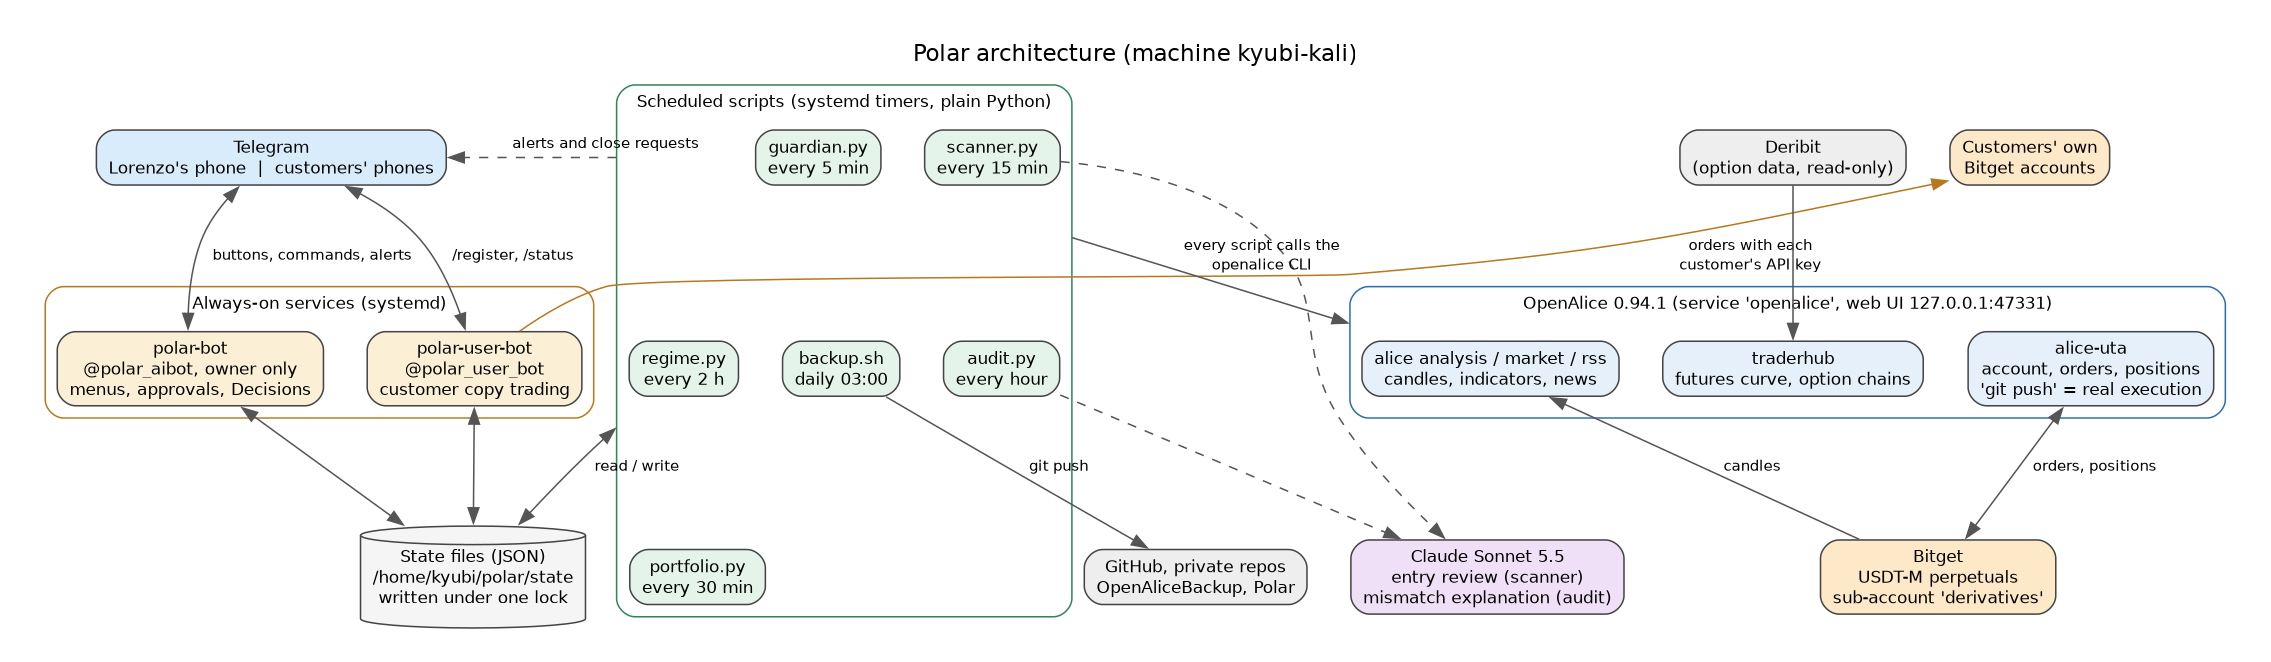
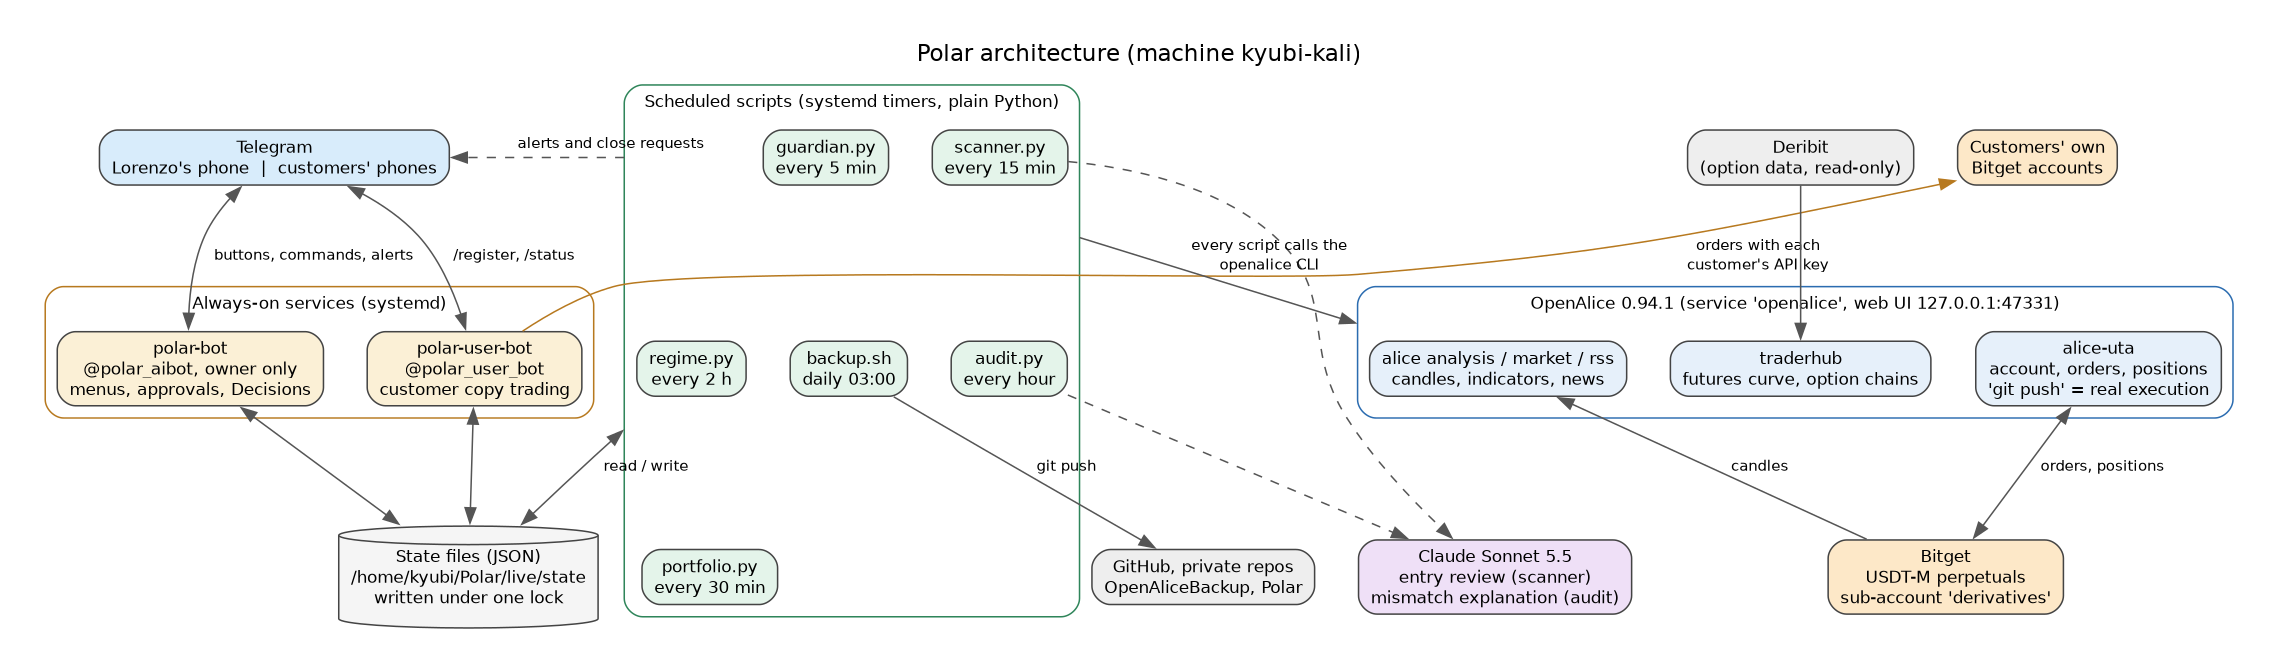
Docs and .gitignore: single working directory (live/ and github-backup/ under Polar)
Claude-Session: https://claude.ai/code/session_01Wp9TVgQjHGDmtbiFKq4kXv

diff --git a/Doc/Infrastructure/live-system/09-operations.md b/Doc/Infrastructure/live-system/09-operations.md
@@ -29,11 +29,11 @@ Replace the unit name with `polar-regime`, `polar-portfolio`, `polar-audit`, `po
 Running a script by hand without `--live` changes nothing:
 
 ```bash
-python3 /home/kyubi/polar/bin/guardian.py        # prints what it would do
-python3 /home/kyubi/polar/bin/scanner.py         # shows each coin's score, places no order
-python3 /home/kyubi/polar/bin/regime.py --dry
-python3 /home/kyubi/polar/bin/portfolio.py --dry
-python3 /home/kyubi/polar/bin/audit.py --dry
+python3 /home/kyubi/Polar/live/bin/guardian.py        # prints what it would do
+python3 /home/kyubi/Polar/live/bin/scanner.py         # shows each coin's score, places no order
+python3 /home/kyubi/Polar/live/bin/regime.py --dry
+python3 /home/kyubi/Polar/live/bin/portfolio.py --dry
+python3 /home/kyubi/Polar/live/bin/audit.py --dry
 ```
 
 ## Restarting
@@ -58,7 +58,7 @@ There is no command that closes positions in bulk, on purpose.
 
 ## Backups
 
-`polar-backup.timer` runs `/home/kyubi/openalice-backup/backup.sh` every day at 03:00 CAT. It copies:
+`polar-backup.timer` runs `/home/kyubi/Polar/github-backup/backup.sh` every day at 03:00 CAT. It copies:
 
 - OpenAlice configuration, without account keys, login data or the sealing key,
 - OpenAlice's workspaces, including the switched-off agent instructions,
@@ -80,7 +80,7 @@ and OpenAlice login by hand under `~/.openalice/data/config/` and start the serv
 The Monday check sends a Telegram message when a newer stable version exists. To upgrade:
 
 ```bash
-bash ~/polar/bin/upgrade-openalice.sh
+bash ~/Polar/live/bin/upgrade-openalice.sh
 ```
 
 It stops if entry orders are pending, takes a backup, upgrades through npm (this asks for sudo),
@@ -89,15 +89,15 @@ itself if the test fails. It never touches positions or orders.
 
 ## Tests
 
-The tests are in `/home/kyubi/polar/tests/`. They use a fake broker and fake Telegram and a throwaway
+The tests are in `/home/kyubi/Polar/live/tests/`. They use a fake broker and fake Telegram and a throwaway
 state folder, never the real account or the real state.
 
 ```bash
-cd /home/kyubi/polar/tests
-python3 -I stress_guardian.py      # 18 checks
-python3    stress_scanner.py       # 6 checks (needs the user's Python packages, so no -I)
-python3    stress_userbot.py       # 18 checks
-python3 -I stress_decisions.py     # 17 checks
+cd /home/kyubi/Polar/live/tests
+python3 stress_guardian.py      # 18 checks
+python3 stress_scanner.py       # 6 checks
+python3 stress_userbot.py       # 18 checks
+python3 stress_decisions.py     # 17 checks
 ```
 
 Each prints PASS or FAIL per check. Run them after changing `guardian.py`, `scanner.py` or either bot.

diff --git a/Doc/Infrastructure/live-system/05-scheduled-jobs.md b/Doc/Infrastructure/live-system/05-scheduled-jobs.md
@@ -1,7 +1,7 @@
 # 05 Scheduled jobs
 
 Every job is a systemd user unit pair: a `.service` that runs a script once and a `.timer` that
-starts it. Files are in `~/.config/systemd/user/`. The scripts are in `/home/kyubi/polar/bin/`.
+starts it. Files are in `~/.config/systemd/user/`. The scripts are in `/home/kyubi/Polar/live/bin/`.
 
 | Timer | Interval | Script | Reads | Writes | Model used |
 |---|---|---|---|---|---|
@@ -10,7 +10,7 @@ starts it. Files are in `~/.config/systemd/user/`. The scripts are in `/home/kyu
 | `polar-portfolio` | 30 min | `portfolio.py` | Bitget account, candles | `portfolio-history.jsonl`, `circuit-breaker.json`, `metrics-cache.json`, `correlation-advisory.json` | none |
 | `polar-regime` | 2 h | `regime.py` | BTC candles, futures curve, Deribit options | `regime.json` | none |
 | `polar-audit` | 1 h | `audit.py` | state files, Bitget | Telegram message only | Sonnet 5.5, only when something is wrong |
-| `polar-backup` | daily, 03:00 CAT | `openalice-backup/backup.sh` | everything below | commits and pushes to GitHub | none |
+| `polar-backup` | daily, 03:00 CAT | `github-backup/backup.sh` | everything below | commits and pushes to GitHub | none |
 | `polar-update-check` | Mondays 09:00 CAT | `check-update.sh` | OpenAlice release info | Telegram message once per new version | none |
 
 After a reboot, the recurring timers start their first run within 1 to 5 minutes.
@@ -67,7 +67,7 @@ See [09 Operations](09-operations.md#backups).
 ## check-update.sh and upgrade-openalice.sh
 
 The weekly check asks OpenAlice whether a newer stable release exists and tells Lorenzo once per
-version. It changes nothing. Upgrading is done by hand with `bash ~/polar/bin/upgrade-openalice.sh`.
+version. It changes nothing. Upgrading is done by hand with `bash ~/Polar/live/bin/upgrade-openalice.sh`.
 That script refuses to run while entry orders are pending, makes a backup, upgrades, restarts,
 smoke-tests the Polar scripts, and rolls back by itself if a test fails.
 

diff --git a/Doc/Infrastructure/live-system/08-tech-stack.md b/Doc/Infrastructure/live-system/08-tech-stack.md
@@ -61,12 +61,28 @@ The "git" in `alice-uta` is OpenAlice's way of working: an order is first staged
 `git status` and refuses to go on if anything else is already staged, because `push` would send
 that too.
 
+## One working directory
+
+Everything of the project sits under `/home/kyubi/Polar`:
+
+```
+/home/kyubi/Polar/
+├── live/            the running system (below)
+├── github-backup/   the backup script and its Git repository (OpenAliceBackup)
+├── Doc/ Core/ Engines/ Research/ ...   the older rebuild code and this documentation
+```
+
+`live/` and `github-backup/` are in `.gitignore` of the `Polar` repository, because the live
+scripts contain the bot tokens. They reach GitHub only through the private backup repository.
+Two things cannot be inside it: `~/.openalice` (OpenAlice's own folder) and
+`~/.config/systemd/user` (where systemd reads the units from).
+
 ## Languages and layout of the code
 
 About 2,800 lines of Python and shell in `bin/` and `bot/`, plus about 1,000 lines of tools and tests.
 
 ```
-/home/kyubi/polar/
+/home/kyubi/Polar/live/
 ├── bin/        regime.py scanner.py guardian.py portfolio.py audit.py gate.py (unused)
 │               check-update.sh upgrade-openalice.sh
 ├── bot/        polar-bot.py polar-user-bot.py

diff --git a/Doc/Infrastructure/live-system/07-state-files.md b/Doc/Infrastructure/live-system/07-state-files.md
@@ -1,6 +1,6 @@
 # 07 State files
 
-Folder: `/home/kyubi/polar/state/`. All files are JSON unless noted. Scripts write through a
+Folder: `/home/kyubi/Polar/live/state/`. All files are JSON unless noted. Scripts write through a
 temporary file and rename it, so a reader never sees half a file.
 
 ## Who changes what
@@ -53,6 +53,6 @@ The customer bot reads this file to know what to copy. Older rows have no `type`
 
 | Path | Holds |
 |---|---|
-| `/home/kyubi/polar/customers/customers.json` | Registered customers and their API credentials (file mode 600, not encrypted) |
-| `/home/kyubi/polar/customers/copies.json` | Trades copied for customers |
+| `/home/kyubi/Polar/live/customers/customers.json` | Registered customers and their API credentials (file mode 600, not encrypted) |
+| `/home/kyubi/Polar/live/customers/copies.json` | Trades copied for customers |
 | `/home/kyubi/.openalice/` | OpenAlice's own data: config, the Bitget account credentials (files the backup skips), workspaces, logs |

diff --git a/Doc/Infrastructure/live-system/06-telegram-bots.md b/Doc/Infrastructure/live-system/06-telegram-bots.md
@@ -5,7 +5,7 @@ Both bots are Python programs built on `python-telegram-bot` 22.8 and run as sys
 
 ## Owner bot (`@polar_aibot`)
 
-File: `/home/kyubi/polar/bot/polar-bot.py`.
+File: `/home/kyubi/Polar/live/bot/polar-bot.py`.
 
 It answers one Telegram chat only, Lorenzo's. Messages from any other chat are ignored.
 
@@ -50,7 +50,7 @@ not lost.
 
 ## Customer bot
 
-File: `/home/kyubi/polar/bot/polar-user-bot.py`. Handle: `@polar_user_bot`.
+File: `/home/kyubi/Polar/live/bot/polar-user-bot.py`. Handle: `@polar_user_bot`.
 
 Lets other people copy Polar's trades on their own Bitget accounts. At the time of writing nobody is
 registered, and it has not been tried on a real customer account.

diff --git a/Doc/Infrastructure/live-system/02-architecture.md b/Doc/Infrastructure/live-system/02-architecture.md
@@ -12,7 +12,7 @@
 **Always-on services.** `polar-bot` and `polar-user-bot` run all the time and wait for messages.
 They are systemd user services and restart themselves if they crash.
 
-**State files.** A folder of JSON files (`/home/kyubi/polar/state`). This is how the pieces pass
+**State files.** A folder of JSON files (`/home/kyubi/Polar/live/state`). This is how the pieces pass
 information to each other: the scanner writes a pending order, the guardian reads it, the bot reads
 what the guardian wrote. Nothing talks to anything else directly. Details in
 [07 State files](07-state-files.md).

diff --git a/Doc/Infrastructure/live-system/README.md b/Doc/Infrastructure/live-system/README.md
@@ -54,7 +54,7 @@ and run the command in [02 Architecture](02-architecture.md#redrawing-the-diagra
 
 ## Not in this repository
 
-The scripts themselves live in `/home/kyubi/polar` on the machine, not in this repository. They are
+The scripts themselves live in `/home/kyubi/Polar/live` on the machine, not in this repository. They are
 copied every night into the private `OpenAliceBackup` repository (see [09 Operations](09-operations.md#backups)).
 They are not stored here because several of them still contain the Telegram bot tokens
 (see [10 Known limits](10-known-limits.md)).
